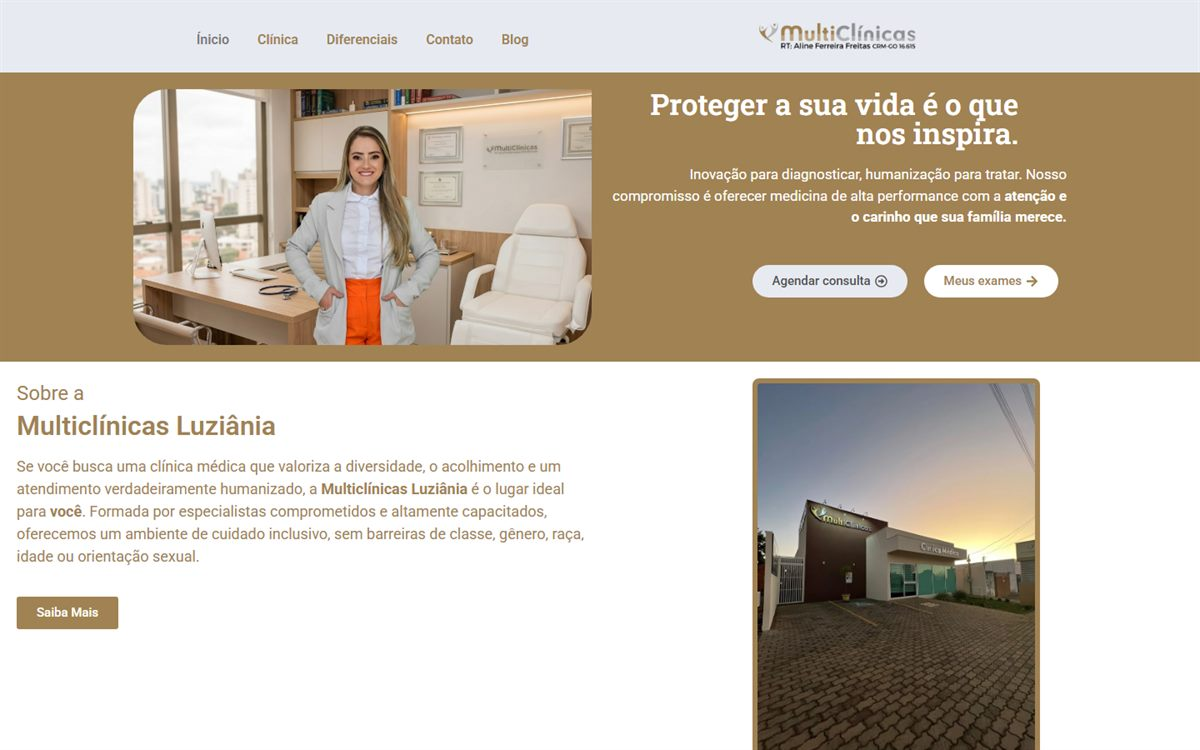
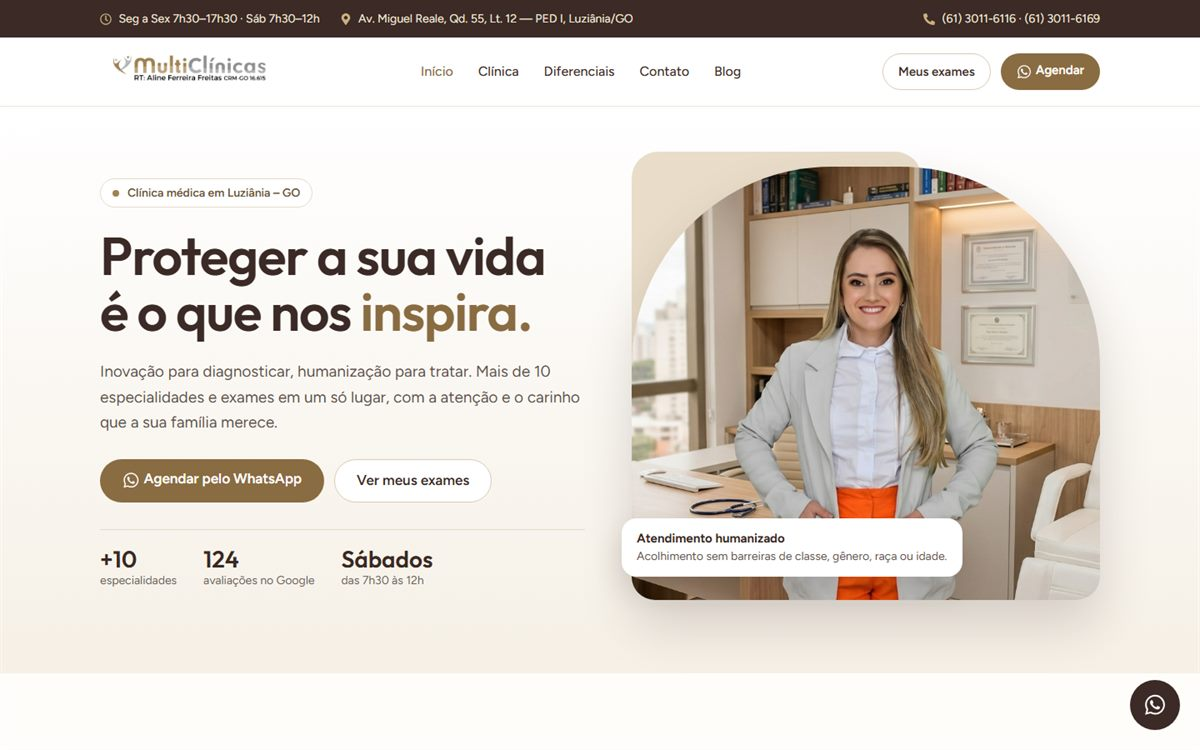
Atualiza print do site da Multiclínicas Luziânia

diff --git a/index.html b/index.html
@@ -401,7 +401,7 @@
 
           <article class="project reveal" data-cat="web">
             <a class="project__shot" href="https://multiclinicasluziania.com/" target="_blank" rel="noopener">
-              <img src="assets/img/projects/multiclinicas.jpg" alt="Site da Multiclínicas Luziânia" loading="lazy" width="1200" height="750">
+              <img src="assets/img/projects/multiclinicas.jpg?v=2" alt="Site da Multiclínicas Luziânia" loading="lazy" width="1200" height="750">
               <span class="project__live mono">● no ar</span>
             </a>
             <div class="project__body">
